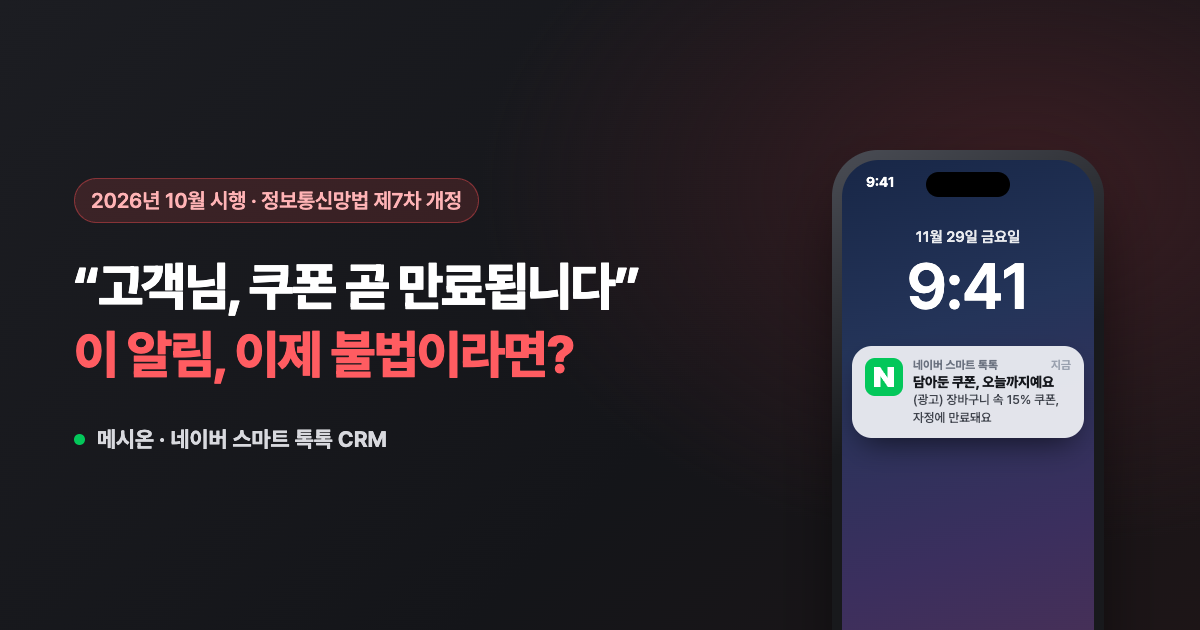
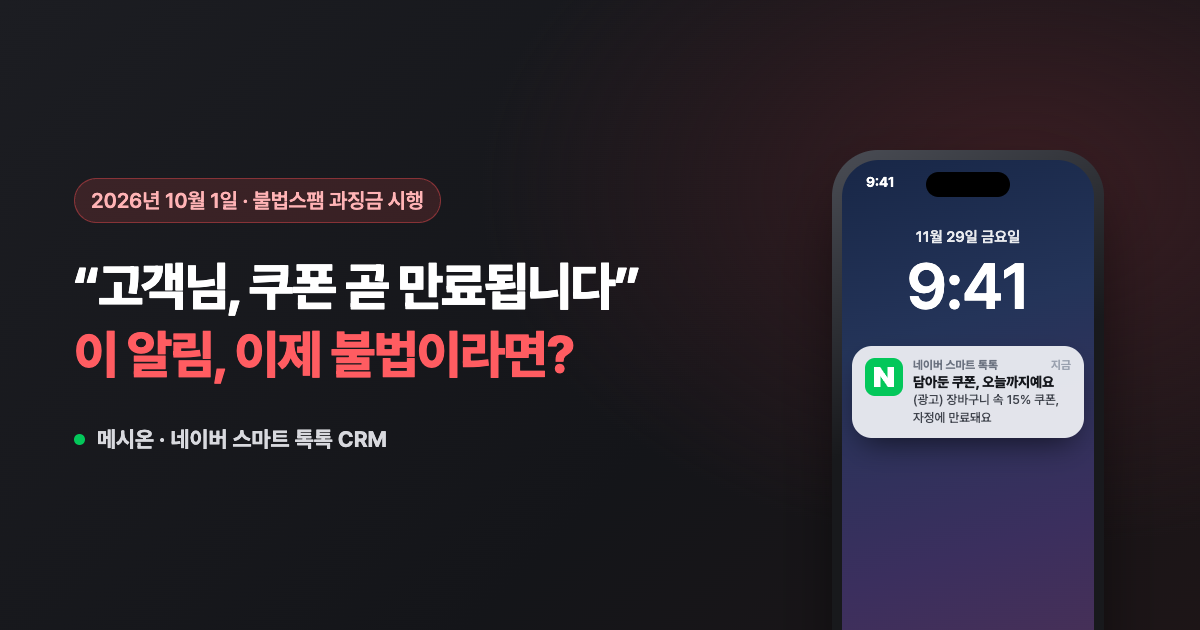
KISA: 규제 시점 정정(1월 카카오 차단·3월 KISA 명시·10월 과징금), 규제 타임라인 추가, OG 칩 문구 수정, dilsec 제목 변경

Changed region(s): [[0.1542, 0.2714, 0.4008, 0.3619]]

diff --git a/index-kisa.html b/index-kisa.html
@@ -4,12 +4,12 @@
 <meta charset="UTF-8">
 <meta name="viewport" content="width=device-width, initial-scale=1.0">
 <title>쿠폰 만료 알림, 이제 불법이라면? | 메시온</title>
-<meta name="description" content="2026년 10월 정보통신망법 개정으로 동의 없는 쿠폰·적립금 만료 안내가 광고성으로 분류됩니다. 마케팅 수신동의 기반 네이버 스마트 톡톡 광고성 발송으로 성수기 매출을 지키세요.">
+<meta name="description" content="2026년 3월 KISA 안내서에서 동의 없는 쿠폰·적립금 만료 안내가 광고성으로 명시됐고, 10월 1일부터는 과태료에 매출 과징금까지 더해집니다. 마케팅 수신동의 기반 네이버 스마트 톡톡 광고성 발송으로 성수기 매출을 지키세요.">
 
 <meta property="og:type" content="website">
 <meta property="og:site_name" content="메시온">
 <meta property="og:title" content="쿠폰 만료 알림, 이제 불법이라면? | 메시온">
-<meta property="og:description" content="2026년 10월 정보통신망법 개정으로 동의 없는 쿠폰·적립금 만료 안내가 광고성으로 분류됩니다. 마케팅 수신동의 기반 네이버 스마트 톡톡 광고성 발송으로 성수기 매출을 지키세요.">
+<meta property="og:description" content="2026년 3월 KISA 안내서에서 동의 없는 쿠폰·적립금 만료 안내가 광고성으로 명시됐고, 10월 1일부터는 과태료에 매출 과징금까지 더해집니다. 마케팅 수신동의 기반 네이버 스마트 톡톡 광고성 발송으로 성수기 매출을 지키세요.">
 <meta property="og:url" content="https://neosongsanhae.github.io/mesionlanding-embed/index-kisa.html">
 <link rel="canonical" href="https://neosongsanhae.github.io/mesionlanding-embed/index-kisa.html">
 <meta property="og:image" content="https://neosongsanhae.github.io/mesionlanding-embed/creatives/og-kisa.png">
@@ -779,6 +779,15 @@
   .cmp-src{text-align:center;margin:14px auto 0}
   .roassec .one{margin:0 auto;text-align:center;max-width:none;text-wrap:balance}
   @media(prefers-reduced-motion:reduce){.seasec .tl-row::before{transform:none;transition:none;animation:none}.tl-item.hot .tl-dot{transform:none;transition:none}}
+
+  /* 4차: 규제 타임라인 */
+  .reg-tl{list-style:none;margin:28px auto 0;padding:0;max-width:880px;display:grid;grid-template-columns:repeat(3,1fr);gap:12px}
+  .reg-tl li{background:var(--paper2);border-radius:14px;padding:16px 18px;display:flex;flex-direction:column;gap:6px}
+  .reg-tl b{font-size:14px;font-weight:800;color:var(--ink);font-variant-numeric:tabular-nums}
+  .reg-tl span{font-size:13.5px;color:var(--muted);line-height:1.55;word-break:keep-all}
+  .reg-tl li.now{background:#fdeaea}
+  .reg-tl li.now b{color:var(--red-d)}
+  @media(max-width:700px){.reg-tl{grid-template-columns:1fr}}
 </style>
 </head>
 <body>
@@ -931,54 +940,59 @@
 
 <header class="hero khero">
   <div class="wrap">
-    <span class="kchip reveal in">2026년 10월 시행 · 정보통신망법 제7차 개정</span>
+    <span class="kchip reveal in">2026년 10월 1일 · 불법스팸 과징금 시행</span>
     <h1 class="reveal in">"고객님, 쿠폰 곧 만료됩니다"<br><span class="rd">이 알림, 이제 불법이라면?</span></h1>
-    <p class="hero-sub reveal in d1">동의 없이 보내오던 쿠폰·적립금 만료 안내가 10월부터 <span style="white-space:nowrap"><b>광고성(스팸)</b>으로</span> 분류됩니다. 적발되면 <b>과태료에 매출 과징금</b>까지 더해집니다.</p>
+    <p class="hero-sub reveal in d1">동의 없이 보내오던 쿠폰·적립금 만료 안내는 이미 <span style="white-space:nowrap"><b>광고성(스팸)</b>입니다.</span> 10월 1일부터는 <b>과태료에 매출 과징금</b>까지 더해집니다.</p>
     <div class="kcta reveal in d2">
       <button class="btn" onclick="openLead('consult')">10월 대응 방법 상담받기</button>
-      <span class="ksource">출처 · KISA 불법스팸 방지 정보통신망법 제7차 개정안</span>
+      <span class="ksource">출처 · KISA 불법 스팸 방지 안내서 제7차 개정본(2026.03) · 개정 정보통신망법</span>
     </div>
   </div>
 </header>
 
 <section class="ksec regsec">
   <div class="wrap">
-    <h2 class="ks-h">10월부터, 무엇이 <span class="rd">달라지나요?</span></h2>
-    <p class="ksec-lead">브랜드가 동의 없이 먼저 지급한 쿠폰·포인트의 발급·만료 안내가<br class="pc"> 10월부터 <b>정보성에서 광고성으로</b> 바뀝니다.</p>
+    <h2 class="ks-h">쿠폰 안내, 무엇이 <span class="rd">달라졌나요?</span></h2>
+    <p class="ksec-lead">브랜드가 동의 없이 먼저 지급한 쿠폰·포인트의 발급·만료 안내는<br class="pc"> 2026년 3월 KISA 안내서에서 <b>광고성 정보로 명시</b>됐습니다.</p>
     <div class="ba-grid">
       <div class="ba-card before">
-        <span class="ba-tag">지금까지</span>
+        <span class="ba-tag">예전에는</span>
         <p class="ba-h">쿠폰·적립금 만료 안내 = 정보성</p>
         <p class="ba-d">수신동의 여부와 상관없이 전체 회원에게 알림톡으로 보내 왔습니다.</p>
       </div>
       <div class="ba-arrow" aria-hidden="true">&rarr;</div>
       <div class="ba-card after">
-        <span class="ba-tag">10월부터</span>
+        <span class="ba-tag">이제는</span>
         <p class="ba-h">브랜드가 먼저 지급한 쿠폰·포인트 안내 = <span class="rd">광고성(스팸)</span></p>
         <p class="ba-d">수신동의가 없으면 보낼 수 없습니다. 그대로 발송하면 불법 스팸으로 처벌 대상이 됩니다.</p>
       </div>
     </div>
+    <ol class="reg-tl">
+      <li><b>2026.1.1</b><span>카카오, 일방 지급 쿠폰·포인트 알림톡 발송 차단</span></li>
+      <li><b>2026.3.4</b><span>KISA 안내서 제7차 개정본, 발급·소멸 안내를 광고성으로 명시</span></li>
+      <li class="now"><b>2026.10.1</b><span>불법스팸 과징금 시행, 기존 과태료에 관련 매출 1~6% 추가</span></li>
+    </ol>
     <div class="knote">
       <span class="kn-h">그럼 전부 광고성일까요? 아닙니다.</span>
-      <p>고객이 직접 받은 쿠폰, 구매로 쌓인 적립금의 소멸 안내는 지금처럼 정보성입니다. 회원가입·이벤트·룰렛으로 브랜드가 먼저 준 혜택의 안내만 광고성으로 바뀝니다.</p>
+      <p>고객이 직접 받은 쿠폰, 구매로 쌓인 적립금의 소멸 안내는 지금처럼 정보성입니다. 회원가입·이벤트·룰렛으로 브랜드가 먼저 준 혜택의 안내만 광고성입니다.</p>
     </div>
   </div>
 </section>
 
 <section class="ksec pensec">
   <div class="wrap">
-    <h2 class="ks-h">이제는 <span class="rd">실제로 처벌</span>받습니다.</h2>
-    <p class="ksec-lead">동의 없는 광고성 발송은 적발 즉시 과태료 대상이고,<br class="pc"> 10월 1일부터는 관련 매출 기반 과징금까지 더해집니다.</p>
+    <h2 class="ks-h">10월 1일부터, 처벌이 <span class="rd">매출 단위로</span> 커집니다.</h2>
+    <p class="ksec-lead">동의 없는 광고성 발송은 지금도 적발 즉시 과태료 대상입니다.<br class="pc"> 10월 1일부터는 여기에 관련 매출의 1~6% 과징금까지 더해집니다.</p>
     <div class="pen-grid">
       <div class="pen-card">
-        <span class="pen-k">위반 시 과태료</span>
+        <span class="pen-k">위반 시 과태료 (현행)</span>
         <div class="pen-row"><span>1회 위반</span><b>750<i>만원</i></b></div>
         <div class="pen-row"><span>2회 위반</span><b>1,500<i>만원</i></b></div>
         <div class="pen-row"><span>3회 위반</span><b>3,000<i>만원</i></b></div>
       </div>
       <div class="pen-card hl">
-        <span class="pen-k">개정으로 더해진 과징금</span>
-        <div class="pen-big">관련 매출 <span class="rd">6%</span></div>
+        <span class="pen-k">10월 1일부터 더해지는 과징금</span>
+        <div class="pen-big">관련 매출 <span class="rd">최대 6%</span></div>
         <p class="pen-sub">여기에 부당이익 <b>전액 몰수</b>까지 더해집니다. 발송량이 많은 브랜드일수록 부담이 커집니다.</p>
       </div>
     </div>
@@ -1001,7 +1015,7 @@
       </div>
       <p class="market-src">출처: KISA·방송미디어통신사무소 자료(이주희 의원실 제공), 조선일보·이데일리 보도</p>
     </div>
-    <p class="disc">본 안내는 KISA 정보통신망법 제7차 개정안 해석에 기반한 것으로, 개별 사안에 대한 법률 자문이 아닙니다.</p>
+    <p class="disc">본 안내는 KISA 「불법 스팸 방지를 위한 정보통신망법 안내서」 제7차 개정본과 개정 정보통신망법에 기반한 것으로, 개별 사안에 대한 법률 자문이 아닙니다.</p>
   </div>
 </section>
 
@@ -1021,8 +1035,8 @@
 </section>
 <section class="ksec dilsec">
   <div class="wrap">
-    <h2 class="ks-h">쿠폰 안내, 이제는 광고로 보내야 합니다.<br><span class="rd">그런데 카카오로는 비싸거나 좁습니다.</span></h2>
-    <p class="ksec-lead">10월부터 광고로 보낼 수 있는 대상은 수신동의 회원으로 줄어듭니다.<br class="pc"> 그런데 카카오 채널로는 이 모수마저 <b>더 좁아지거나, 비용이 몇 배로 뜁니다.</b></p>
+    <h2 class="ks-h">쿠폰 안내, 이제는 광고로 보내야 합니다.<br><span class="rd">그런데 카카오톡은 모수가 적거나 비쌉니다.</span></h2>
+    <p class="ksec-lead">광고성이 된 쿠폰 안내는 수신동의 회원에게만 보낼 수 있습니다.<br class="pc"> 그런데 카카오 채널로는 이 모수마저 <b>더 좁아지거나, 비용이 몇 배로 뜁니다.</b></p>
     <div class="dil-grid">
       <div class="dil-card">
         <span class="dil-k">카카오 브랜드메시지 · 친구 대상</span>
@@ -1171,7 +1185,7 @@
 <section class="cmpsec">
   <div class="wrap">
     <h2 class="one">CRM 매체들을 비교해봐도,<br><span class="em">답은 네이버 스마트 톡톡입니다.</span></h2>
-    <p class="ksec-lead">10월 이후 수신동의 회원에게 쿠폰·혜택을 보낼 수 있는 광고성 채널을<br class="pc"> 같은 기준으로 나란히 놓았습니다.</p>
+    <p class="ksec-lead">수신동의 회원에게 쿠폰·혜택을 보낼 수 있는 광고성 채널을<br class="pc"> 같은 기준으로 나란히 놓았습니다.</p>
     <div class="chwrap">
       <table class="chtable" aria-label="광고성 발송 매체별 비교">
         <thead>
@@ -1222,12 +1236,12 @@
   <div class="wrap">
     <h2 class="one">자주 묻는 질문</h2>
     <div class="faqs" id="faqAcc">
-      <div class="qa"><button class="q" type="button">우리 브랜드도 개정 대상인가요?<span class="qi"></span></button>
-        <div class="a"><p>회원가입·이벤트·룰렛으로 동의 없이 먼저 준 쿠폰·포인트의 발급·만료를 안내해 왔다면 대상입니다. 10월부터 이 안내는 마케팅 수신동의가 없는 회원에게 보낼 수 없습니다.</p></div></div>
+      <div class="qa"><button class="q" type="button">우리 브랜드도 해당되나요?<span class="qi"></span></button>
+        <div class="a"><p>회원가입·이벤트·룰렛으로 동의 없이 먼저 준 쿠폰·포인트의 발급·만료를 안내해 왔다면 해당됩니다. 이 안내는 이미 마케팅 수신동의가 없는 회원에게 보낼 수 없고, 카카오도 1월부터 이런 알림톡 발송을 막고 있습니다.</p></div></div>
       <div class="qa"><button class="q" type="button">언제부터 적용되나요?<span class="qi"></span></button>
-        <div class="a"><p>개정 정보통신망법의 과징금이 2026년 10월 1일부터 시행됩니다. 동의 없는 광고성 발송이 적발되면 과태료에 관련 매출의 최대 6% 과징금까지 더해질 수 있습니다.</p></div></div>
+        <div class="a"><p>이미 적용 중입니다. KISA가 2026년 3월 안내서에서 광고성으로 명시했고, 동의 없는 발송은 지금도 과태료(1회 750만 원~3회 3,000만 원) 대상입니다. 10월 1일부터는 여기에 관련 매출의 1~6% 과징금이 더해집니다.</p></div></div>
       <div class="qa"><button class="q" type="button">그래도 정보성으로 보낼 수 있는 건 무엇인가요?<span class="qi"></span></button>
-        <div class="a"><p>고객이 직접 발급받은 쿠폰, 구매로 쌓여 회계상 충당부채로 처리되는 적립금의 소멸 안내는 정보성입니다. 사용 시점에 매출할인으로 처리되는 혜택은 광고성으로 봅니다. 정확한 적용은 KISA 개정안과 자문으로 확인하시길 권합니다.</p></div></div>
+        <div class="a"><p>고객이 직접 발급받은 쿠폰, 구매로 쌓여 회계상 충당부채로 처리되는 적립금의 소멸 안내는 정보성입니다. 사용 시점에 매출할인으로 처리되는 혜택은 광고성으로 봅니다. 정확한 적용은 KISA 안내서와 자문으로 확인하시길 권합니다.</p></div></div>
       <div class="qa"><button class="q" type="button">마케팅 수신동의는 어떻게 확보하나요?<span class="qi"></span></button>
         <div class="a"><p>이미 수신동의를 받은 회원에게는 바로 보낼 수 있습니다. 동의가 없는 회원은 가입·구매 단계에서 동의받는 흐름을 함께 설계하고, (광고) 표기·수신거부 처리도 메시온이 규정에 맞춰 지원합니다.</p></div></div>
       <div class="qa"><button class="q" type="button">기존 알림톡·카카오톡도 함께 쓸 수 있나요?<span class="qi"></span></button>
